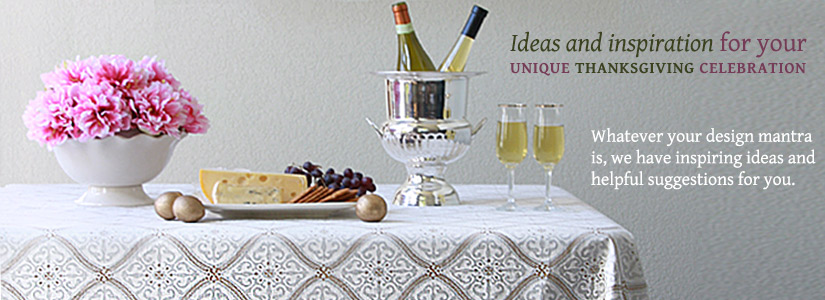
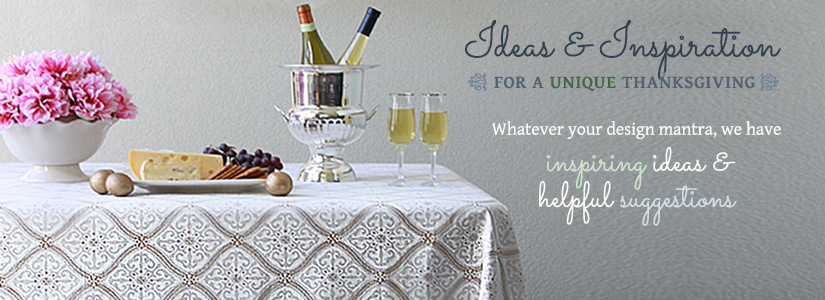
Update Thanksgiving shopping guide image and add proper button hover colours.

diff --git a/custom/custom.css b/custom/custom.css
@@ -716,7 +716,7 @@ ul#main-nav ul li:hover > a {
 .subcategory.fall { background-image: url('series/fall/fall-title-image.jpg'); }
 
 .subcategory.thanksgiving h2, .subcategory.thanksgiving .read-more a { background-color: #466545; }
-.subcategory.thanksgiving:hover h2, .subcategory.thanksgiving:hover .read-more a { background-color: #466545; }
+.subcategory.thanksgiving:hover h2, .subcategory.thanksgiving:hover .read-more a { background-color: #354d34; }
 .subcategory.thanksgiving { background-image: url('series/thanksgiving/thanksgiving-title-image.jpg'); }
 
 
